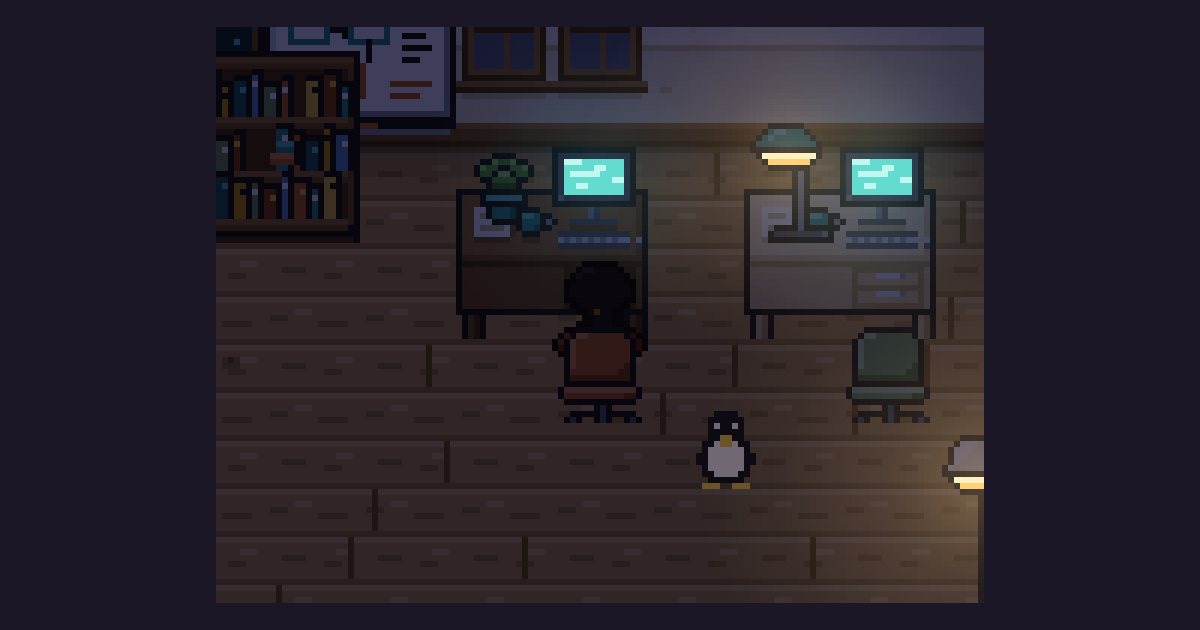
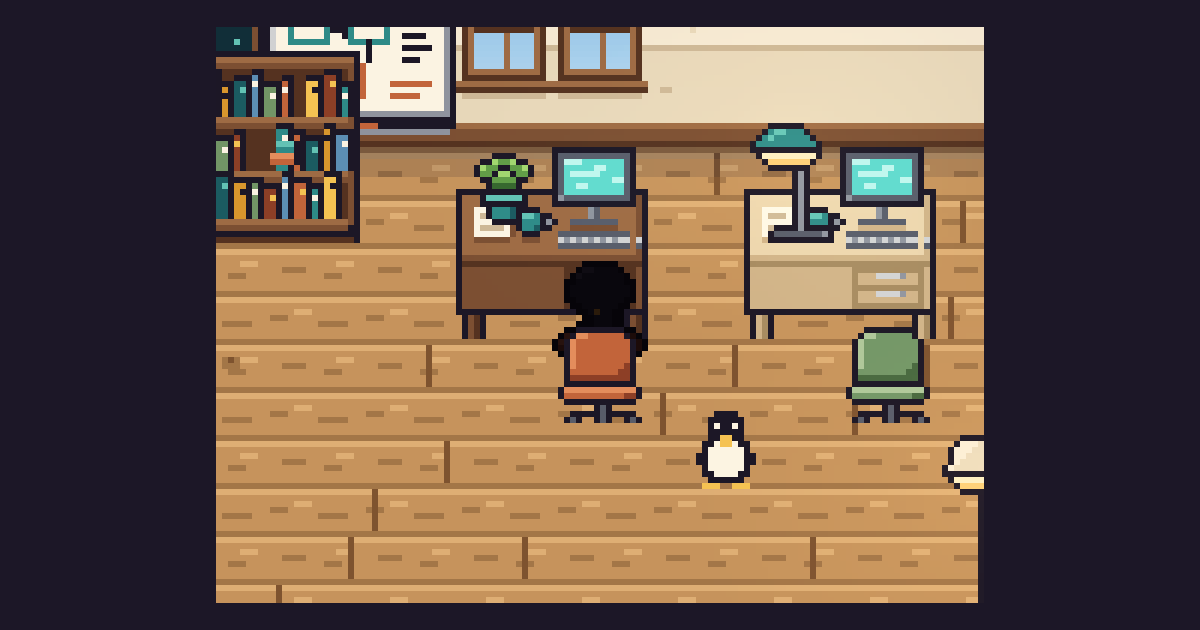
Show the 0.0.3 link preview by day, where the penguin shows
Each release animation now picks its link preview's light, night or day,
beside its frame. 0.0.3's penguin is ink on a dark floor at night, so its
preview is the daytime frame. The others stay at night.

diff --git a/apps/site/scripts/release-art.ts b/apps/site/scripts/release-art.ts
@@ -264,16 +264,22 @@ function stuckSignIn({ room, door, odd }: DoorLayers): GifFrame[] {
 
 /**
  * Every release's art. `share` is the GIF frame, counted from 0, that becomes
- * the link preview while that release is the newest one. The owner picks it
- * when the art is made; there is no default.
+ * the link preview while that release is the newest one, and `shareLight` is
+ * whether that frame is drawn by night or by day. The owner picks both when
+ * the art is made; there is no default.
  */
-const ART: { name: string; frames: (layers: Layers) => GifFrame[]; share: number }[] = [
+const ART: {
+  name: string;
+  frames: (layers: Layers) => GifFrame[];
+  share: number;
+  shareLight: 'night' | 'day';
+}[] = [
   // The whole hello in its bubble.
-  { name: 'hello-world', frames: (l) => helloWorld(l.desk), share: 30 },
+  { name: 'hello-world', frames: (l) => helloWorld(l.desk), share: 30, shareLight: 'night' },
   // Ada backed off on the sidewalk, wondering.
-  { name: 'stuck-sign-in', frames: (l) => stuckSignIn(l.door), share: 55 },
-  // The penguin standing on the floor.
-  { name: 'linux', frames: (l) => linux(l.desk), share: 30 }
+  { name: 'stuck-sign-in', frames: (l) => stuckSignIn(l.door), share: 55, shareLight: 'night' },
+  // The penguin standing on the floor, by day, where his ink shows.
+  { name: 'linux', frames: (l) => linux(l.desk), share: 30, shareLight: 'day' }
 ];
 
 // The link preview's size, and the ink it sits on.
@@ -291,10 +297,16 @@ function shareCard(img: Image): Image {
 }
 
 /**
- * Writes <name>.gif and its still, <name>.png, into `dir`, for one theme. At
- * night it also writes <name>-share.png, the link preview.
+ * Writes <name>.gif and its still, <name>.png, into `dir`, for one theme. In
+ * the light an animation picks for its link preview, it also writes
+ * <name>-share.png into `shareDir`, the same folder in both themes.
  */
-export function writeReleaseArt(layers: Layers, dir: string, theme: 'night' | 'day'): void {
+export function writeReleaseArt(
+  layers: Layers,
+  dir: string,
+  theme: 'night' | 'day',
+  shareDir: string
+): void {
   mkdirSync(dir, { recursive: true });
   for (const art of ART) {
     const frames = art.frames(layers);
@@ -303,8 +315,13 @@ export function writeReleaseArt(layers: Layers, dir: string, theme: 'night' | 'd
       throw new Error(`${art.name}: share frame ${art.share} is not one of its ${gif.length}`);
     writeFileSync(join(dir, `${art.name}.gif`), encodeGif(gif));
     writeFileSync(join(dir, `${art.name}.png`), encodePng(frames.at(-1)!.image));
-    if (theme === 'night')
-      writeFileSync(join(dir, `${art.name}-share.png`), encodePng(shareCard(gif[art.share].image)));
+    if (theme === art.shareLight) {
+      mkdirSync(shareDir, { recursive: true });
+      writeFileSync(
+        join(shareDir, `${art.name}-share.png`),
+        encodePng(shareCard(gif[art.share].image))
+      );
+    }
     console.log(`${relative(process.cwd(), join(dir, art.name))}.gif: ${gif.length} frames`);
   }
 }

diff --git a/apps/site/scripts/art.ts b/apps/site/scripts/art.ts
@@ -660,7 +660,8 @@ function renderSet(hour: number, dir: string): Image {
       }
     },
     join(ART, dir, 'releases'),
-    dir === 'day' ? 'day' : 'night'
+    dir === 'day' ? 'day' : 'night',
+    join(ART, 'releases')
   );
   return lit;
 }

diff --git a/apps/site/CLAUDE.md b/apps/site/CLAUDE.md
@@ -260,10 +260,11 @@ still under reduced motion (the 2026-11-03 site ruling). A new animation goes
 in `release-art.ts`, so it gets both themes with no extra work.
 
 The newest release's art is also `/releases/`'s link preview:
-`<name>-share.png`, one frame at 1200 by 630 on ink, from the night set.
-Each animation names its frame as `share` in `release-art.ts`, and `npm run
-art` fails without one. The owner picks the frame: when making a release's
-art, show the owner the frames and ask which one. `releases.ts` describes that
+`<name>-share.png`, one frame at 1200 by 630 on ink, in `static/art/releases/`.
+Each animation names its frame as `share` and its light, night or day, as
+`shareLight` in `release-art.ts`, and `npm run art` fails without a frame. The
+owner picks both: when making a release's art, show the owner the frames in
+both lights and ask which one. `releases.ts` describes that
 frame as `shareAlt`.
 `scripts/gif.ts` writes the GIFs, with no dependency: median cut to 256
 colours, then LZW.
